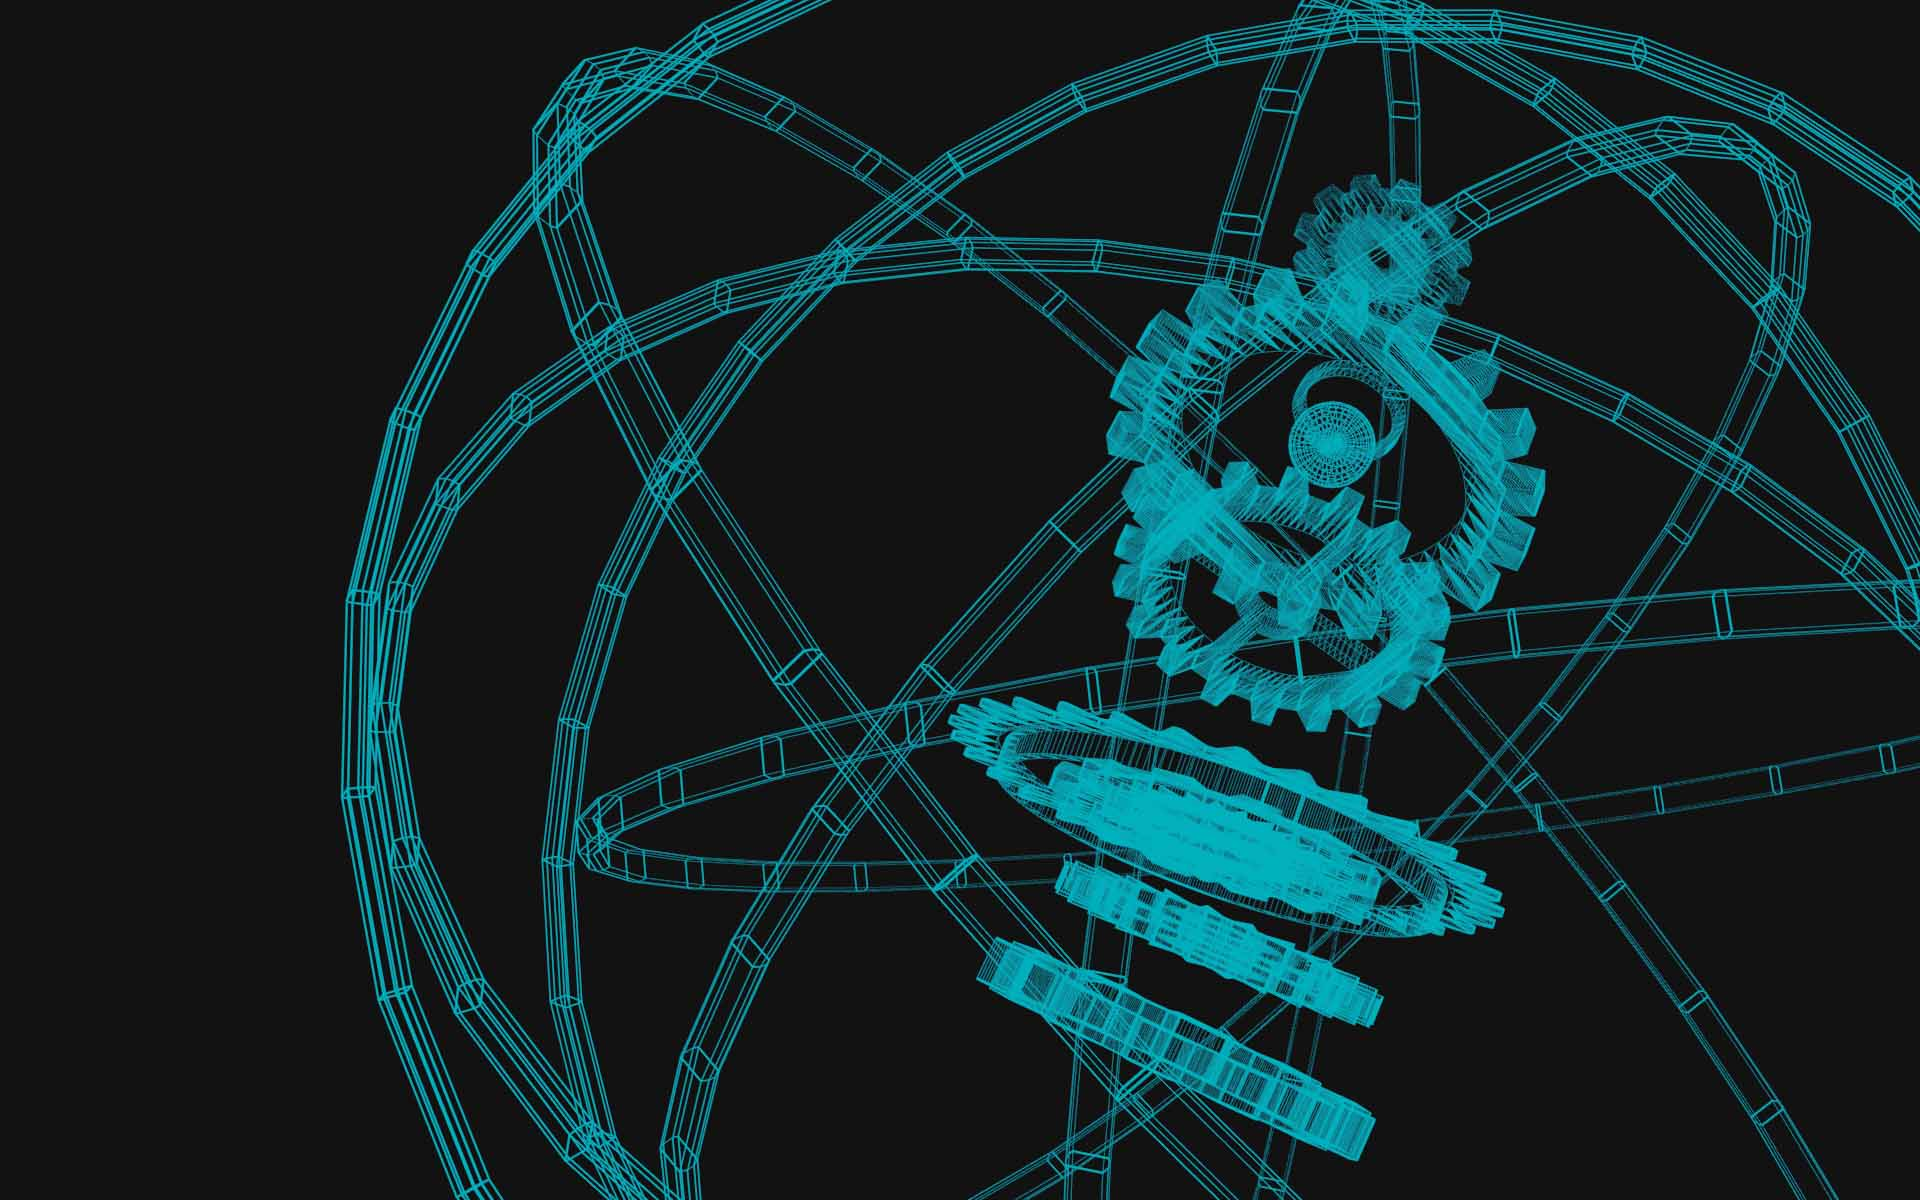
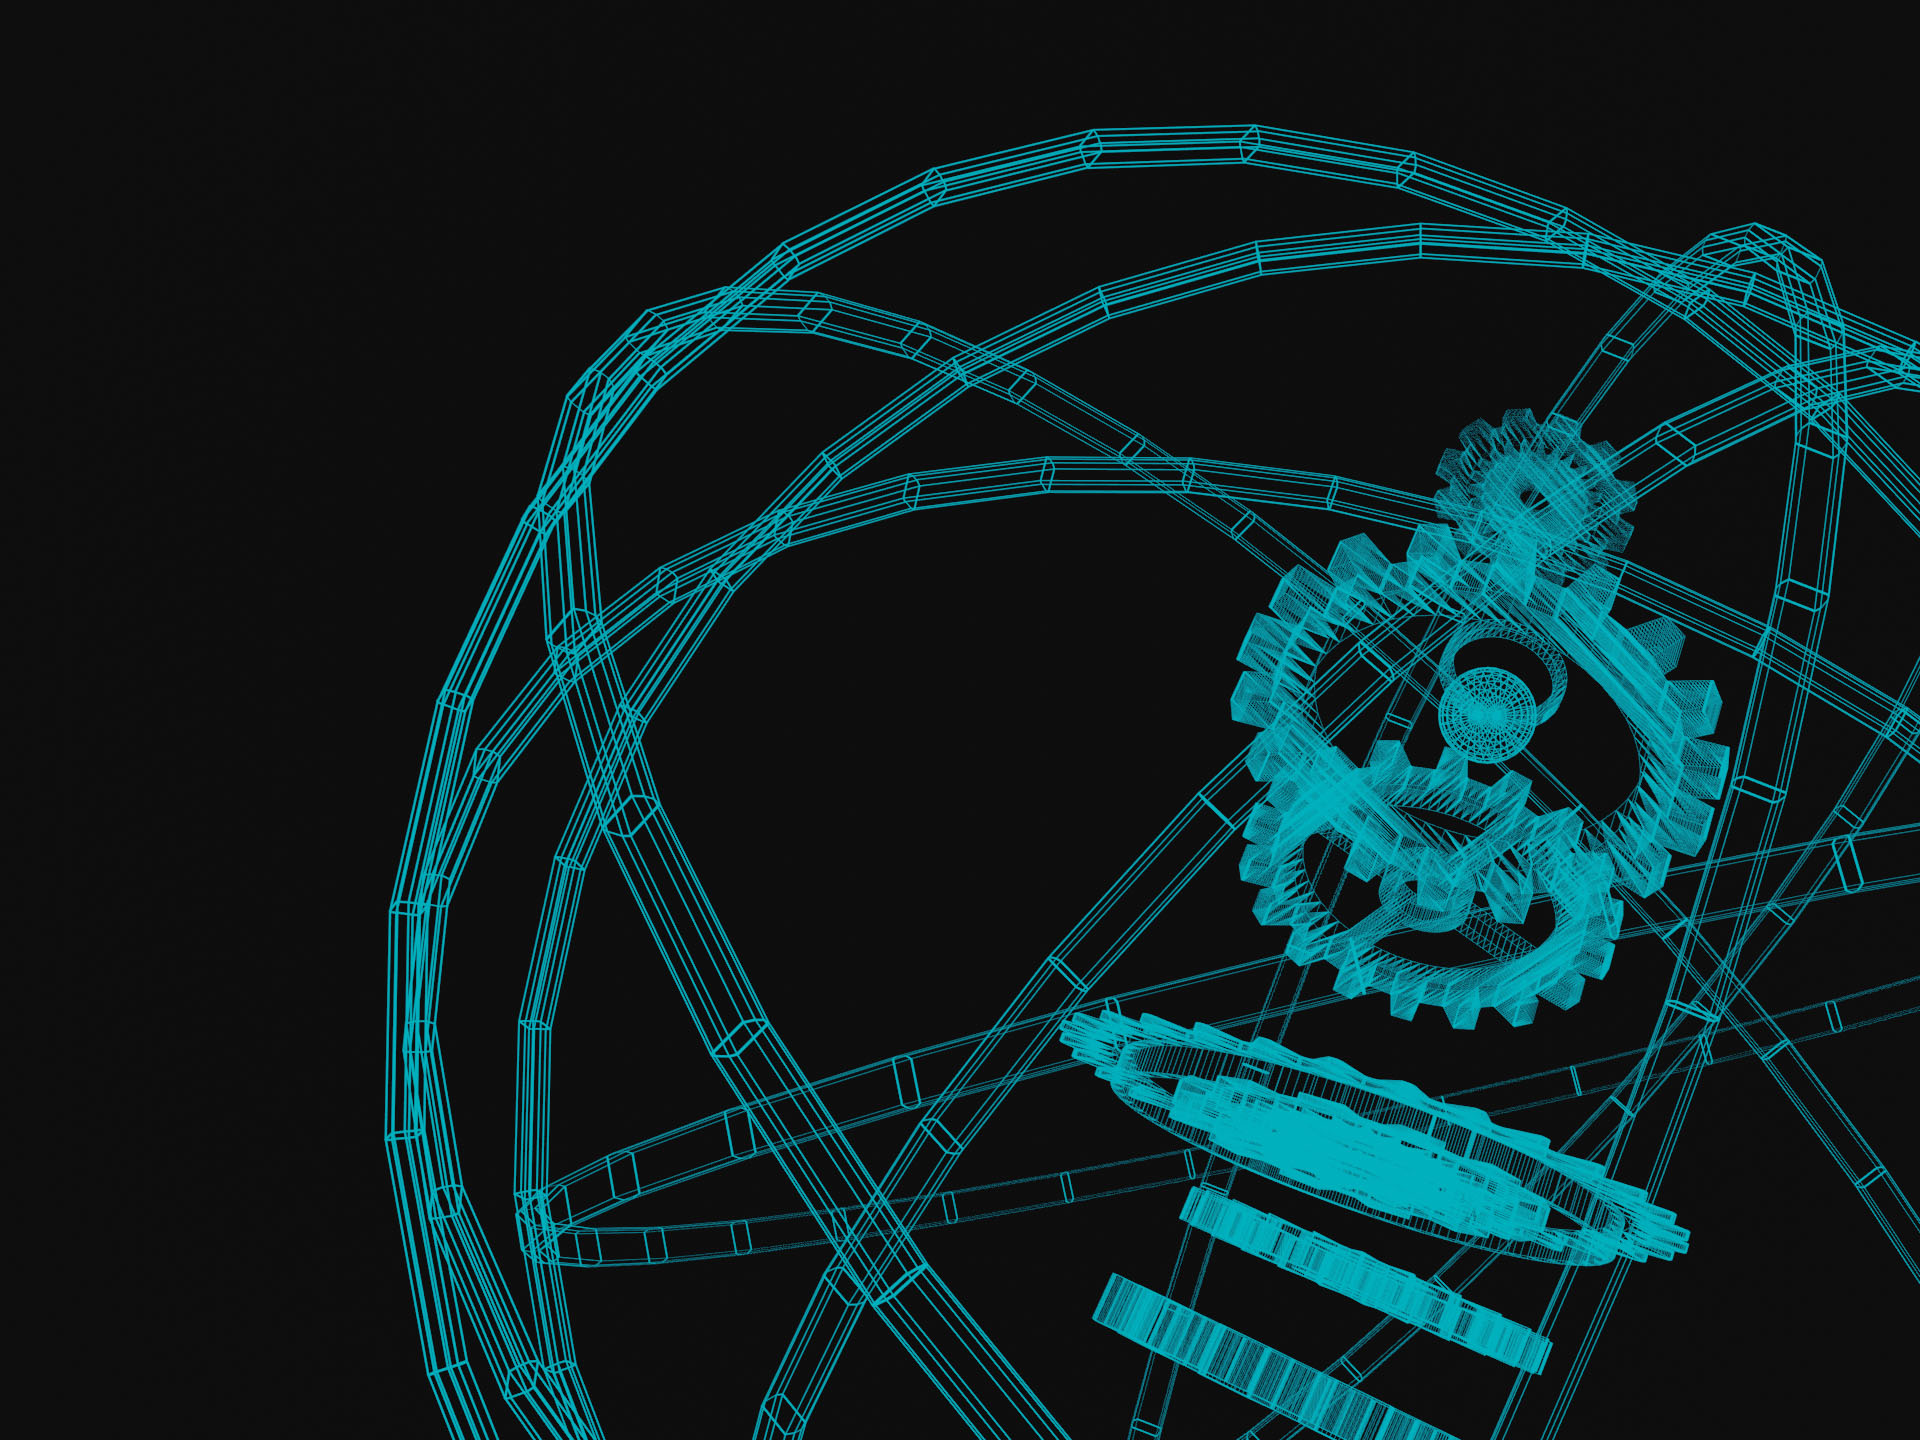
Update masthead images

diff --git a/css/styles.full.css b/css/styles.full.css
@@ -15398,12 +15398,12 @@ body {
 }
 
 .masthead.masthead-projects-bg {
-  background: -webkit-gradient(linear, left top, left bottom, from(rgba(0, 0, 0, 0.3)), color-stop(75%, rgba(0, 0, 0, 0.7)), to(#000)), url("../assets/masthead-wireframe.jpg");
-  background: -webkit-linear-gradient(top, rgba(0, 0, 0, 0.3) 0%, rgba(0, 0, 0, 0.7) 75%, #000 100%), url("../assets/masthead-wireframe.jpg");
-  background: -moz-linear-gradient(top, rgba(0, 0, 0, 0.3) 0%, rgba(0, 0, 0, 0.7) 75%, #000 100%), url("../assets/masthead-wireframe.jpg");
-  background: -o-linear-gradient(top, rgba(0, 0, 0, 0.3) 0%, rgba(0, 0, 0, 0.7) 75%, #000 100%), url("../assets/masthead-wireframe.jpg");
-  background: linear-gradient(to bottom, rgba(0, 0, 0, 0.3) 0%, rgba(0, 0, 0, 0.7) 75%, #000 100%), url("../assets/masthead-wireframe.jpg");
-  background-position: 58% 50%;
+  background: -webkit-gradient(linear, left top, left bottom, from(rgba(0, 0, 0, 0.7)), color-stop(15%, rgba(0, 0, 0, 0.15)), color-stop(90%, rgba(0, 0, 0, 0.6)), to(#000)), url("../assets/masthead-wireframe.jpg");
+  background: -webkit-linear-gradient(top, rgba(0, 0, 0, 0.7) 0%, rgba(0, 0, 0, 0.15) 15%, rgba(0, 0, 0, 0.6) 90%, #000 100%), url("../assets/masthead-wireframe.jpg");
+  background: -moz-linear-gradient(top, rgba(0, 0, 0, 0.7) 0%, rgba(0, 0, 0, 0.15) 15%, rgba(0, 0, 0, 0.6) 90%, #000 100%), url("../assets/masthead-wireframe.jpg");
+  background: -o-linear-gradient(top, rgba(0, 0, 0, 0.7) 0%, rgba(0, 0, 0, 0.15) 15%, rgba(0, 0, 0, 0.6) 90%, #000 100%), url("../assets/masthead-wireframe.jpg");
+  background: linear-gradient(to bottom, rgba(0, 0, 0, 0.7) 0%, rgba(0, 0, 0, 0.15) 15%, rgba(0, 0, 0, 0.6) 90%, #000 100%), url("../assets/masthead-wireframe.jpg");
+  background-position: center center;
   background-repeat: no-repeat;
   background-attachment: scroll;
   -moz-background-size: cover;
@@ -15453,12 +15453,8 @@ body {
   border-bottom: 1px solid rgba(0, 0, 0, 0.2);
 }
 .masthead.masthead-photographs-bg {
-  background: -webkit-gradient(linear, left top, left bottom, from(rgba(255, 255, 255, 0.2)), color-stop(65%, rgba(255, 255, 255, 0.7)), to(#fff)), url("../assets/masthead-color.jpg");
-  background: -webkit-linear-gradient(top, rgba(255, 255, 255, 0.2) 0%, rgba(255, 255, 255, 0.7) 65%, #fff 100%), url("../assets/masthead-color.jpg");
-  background: -moz-linear-gradient(top, rgba(255, 255, 255, 0.2) 0%, rgba(255, 255, 255, 0.7) 65%, #fff 100%), url("../assets/masthead-color.jpg");
-  background: -o-linear-gradient(top, rgba(255, 255, 255, 0.2) 0%, rgba(255, 255, 255, 0.7) 65%, #fff 100%), url("../assets/masthead-color.jpg");
-  background: linear-gradient(to bottom, rgba(255, 255, 255, 0.2) 0%, rgba(255, 255, 255, 0.7) 65%, #fff 100%), url("../assets/masthead-color.jpg");
-  background-position: 58% 50%;
+  background: url("../assets/masthead-color.jpg");
+  background-position: center center;
   background-repeat: no-repeat;
   background-attachment: scroll;
   -moz-background-size: cover;

diff --git a/css/styles.css b/css/styles.css
@@ -2314,12 +2314,12 @@ body {
 }
 
 .masthead.masthead-projects-bg {
-  background: -webkit-gradient(linear, left top, left bottom, from(rgba(0, 0, 0, 0.3)), color-stop(75%, rgba(0, 0, 0, 0.7)), to(#000)), url("../assets/masthead-wireframe.jpg");
-  background: -webkit-linear-gradient(top, rgba(0, 0, 0, 0.3) 0%, rgba(0, 0, 0, 0.7) 75%, #000 100%), url("../assets/masthead-wireframe.jpg");
-  background: -moz-linear-gradient(top, rgba(0, 0, 0, 0.3) 0%, rgba(0, 0, 0, 0.7) 75%, #000 100%), url("../assets/masthead-wireframe.jpg");
-  background: -o-linear-gradient(top, rgba(0, 0, 0, 0.3) 0%, rgba(0, 0, 0, 0.7) 75%, #000 100%), url("../assets/masthead-wireframe.jpg");
-  background: linear-gradient(to bottom, rgba(0, 0, 0, 0.3) 0%, rgba(0, 0, 0, 0.7) 75%, #000 100%), url("../assets/masthead-wireframe.jpg");
-  background-position: 58% 50%;
+  background: -webkit-gradient(linear, left top, left bottom, from(rgba(0, 0, 0, 0.7)), color-stop(15%, rgba(0, 0, 0, 0.15)), color-stop(90%, rgba(0, 0, 0, 0.6)), to(#000)), url("../assets/masthead-wireframe.jpg");
+  background: -webkit-linear-gradient(top, rgba(0, 0, 0, 0.7) 0%, rgba(0, 0, 0, 0.15) 15%, rgba(0, 0, 0, 0.6) 90%, #000 100%), url("../assets/masthead-wireframe.jpg");
+  background: -moz-linear-gradient(top, rgba(0, 0, 0, 0.7) 0%, rgba(0, 0, 0, 0.15) 15%, rgba(0, 0, 0, 0.6) 90%, #000 100%), url("../assets/masthead-wireframe.jpg");
+  background: -o-linear-gradient(top, rgba(0, 0, 0, 0.7) 0%, rgba(0, 0, 0, 0.15) 15%, rgba(0, 0, 0, 0.6) 90%, #000 100%), url("../assets/masthead-wireframe.jpg");
+  background: linear-gradient(to bottom, rgba(0, 0, 0, 0.7) 0%, rgba(0, 0, 0, 0.15) 15%, rgba(0, 0, 0, 0.6) 90%, #000 100%), url("../assets/masthead-wireframe.jpg");
+  background-position: center center;
   background-repeat: no-repeat;
   background-attachment: scroll;
   -moz-background-size: cover;
@@ -2369,12 +2369,8 @@ body {
   border-bottom: 1px solid rgba(0, 0, 0, 0.2);
 }
 .masthead.masthead-photographs-bg {
-  background: -webkit-gradient(linear, left top, left bottom, from(rgba(255, 255, 255, 0.2)), color-stop(65%, rgba(255, 255, 255, 0.7)), to(#fff)), url("../assets/masthead-color.jpg");
-  background: -webkit-linear-gradient(top, rgba(255, 255, 255, 0.2) 0%, rgba(255, 255, 255, 0.7) 65%, #fff 100%), url("../assets/masthead-color.jpg");
-  background: -moz-linear-gradient(top, rgba(255, 255, 255, 0.2) 0%, rgba(255, 255, 255, 0.7) 65%, #fff 100%), url("../assets/masthead-color.jpg");
-  background: -o-linear-gradient(top, rgba(255, 255, 255, 0.2) 0%, rgba(255, 255, 255, 0.7) 65%, #fff 100%), url("../assets/masthead-color.jpg");
-  background: linear-gradient(to bottom, rgba(255, 255, 255, 0.2) 0%, rgba(255, 255, 255, 0.7) 65%, #fff 100%), url("../assets/masthead-color.jpg");
-  background-position: 58% 50%;
+  background: url("../assets/masthead-color.jpg");
+  background-position: center center;
   background-repeat: no-repeat;
   background-attachment: scroll;
   -moz-background-size: cover;

diff --git a/photographs/index.html b/photographs/index.html
@@ -18,7 +18,7 @@
     <link href="/css/styles.full.css" rel="stylesheet"/>
     <!-- Preloads (crossorigin is needed for fonts) -->
     <link rel="preload" href="/fonts/nunito-sans-v12-latin-200.woff2" as="font" type="font/woff2" crossorigin>
-    <link rel="preload" fetchpriority="high" href="/assets/masthead-wireframe.jpg" as="image" type="image/jpeg">
+    <link rel="preload" fetchpriority="high" href="/assets/masthead-color.jpg" as="image" type="image/jpeg">
     <link rel="preload" href="/fonts/nunito-sans-v12-latin-700.woff2" as="font" type="font/woff2" crossorigin>
     <link rel="preload" href="/fonts/nunito-sans-v12-latin-regular.woff2" as="font" type="font/woff2" crossorigin>
     <link rel="preload" href="/js/scripts.min.js" as="script">
@@ -31,7 +31,7 @@
 <!-- Display the background image only when completely loaded -->
 <div id="preload" style="display: none">
     <img src="/assets/masthead-color.jpg"
-         onload='document.getElementById("masthead").classList.add("masthead-projects-bg");' alt="">
+         onload='document.getElementById("masthead").classList.add("masthead-photographs-bg");' alt="">
 </div>
 
 <!-- Embedded SVG used -->

diff --git a/src/scss/pages/_projects.scss b/src/scss/pages/_projects.scss
@@ -26,11 +26,12 @@
 .masthead {
     &.masthead-projects-bg {
         background: linear-gradient(to bottom,
-                #{fade-out($black, 0.7)} 0%,
-                #{fade-out($black, 0.3)} 75%,
+                #{fade-out($black, 0.3)} 0%,
+                #{fade-out($black, 0.85)} 15%,
+                #{fade-out($black, 0.4)} 90%,
                 $black 100%),
         url("../assets/masthead-wireframe.jpg");
-        background-position: 58% 50%;
+        background-position: center center;
         background-repeat: no-repeat;
         background-attachment: scroll;
         background-size: cover;

diff --git a/src/scss/pages/_photographs.scss b/src/scss/pages/_photographs.scss
@@ -1,12 +1,8 @@
 .masthead {
     &.masthead-photographs-bg {
-        background: linear-gradient(to bottom,
-                #{fade-out($white, 0.8)} 0%,
-                #{fade-out($white, 0.3)} 65%,
-                $white 100%),
-        url("../assets/masthead-color.jpg");
+        background: url("../assets/masthead-color.jpg");
 
-        background-position: 58% 50%;
+        background-position: center center;
         background-repeat: no-repeat;
         background-attachment: scroll;
         background-size: cover;
